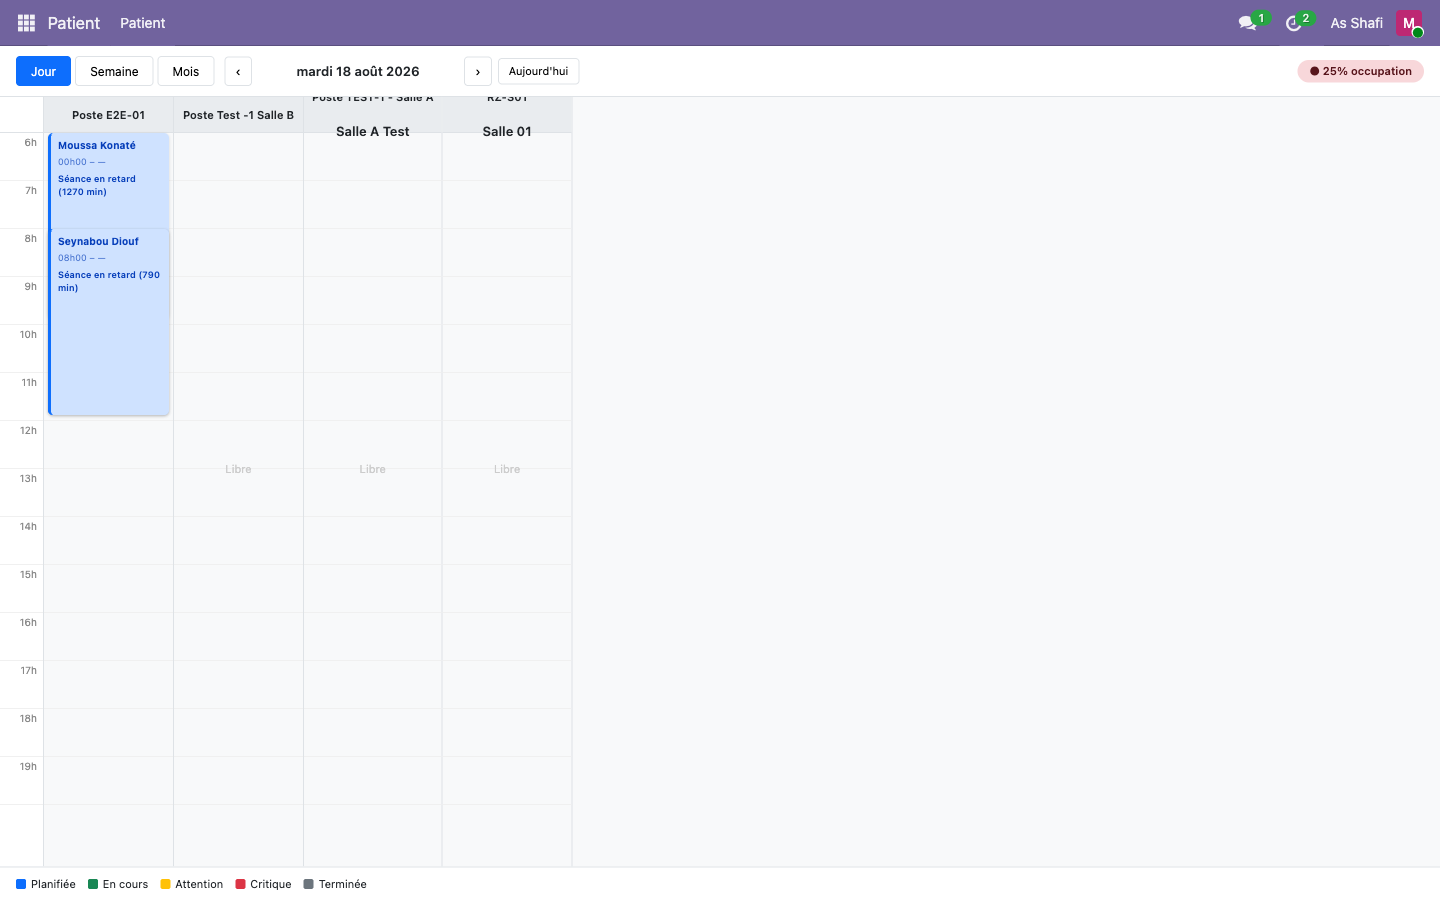
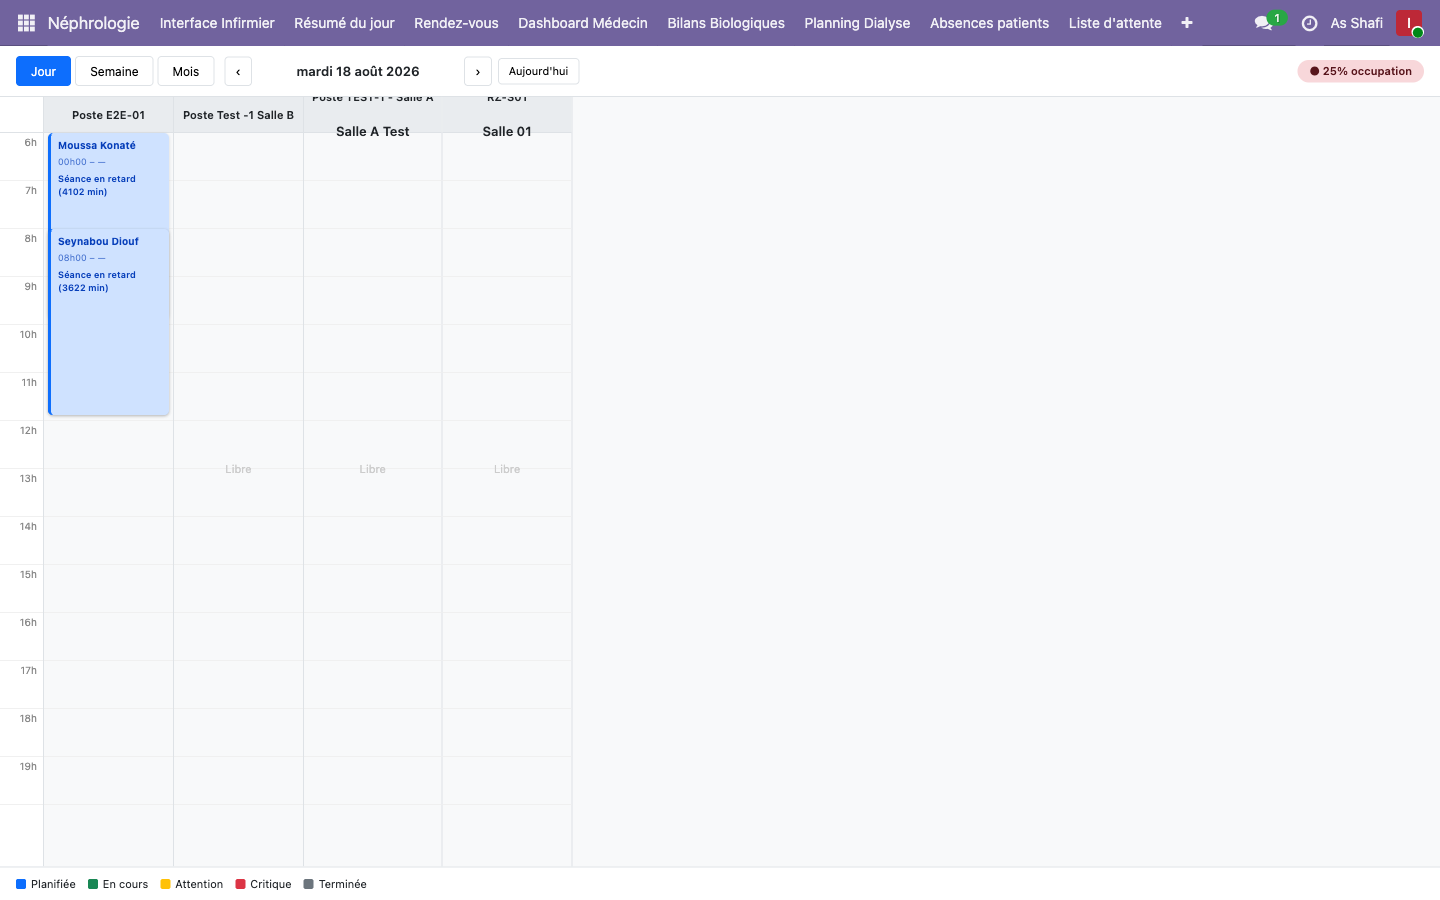
feat: workflow C3 — infirmière accède Planning + Dossier complet avant démarrage séance
- Réorganisation workflow : étapes 1b (Planning Dialyse) et 1c (Dossier complet) placées AVANT l'étape 2 (Démarrer la séance)
- Rôle infirmière pour Planning Dialyse et Dossier complet (badges col-inf)
- Groupe nephro ajouté à l'infirmière via RPC dans les tests
- Screenshots régénérés avec onglet Néphrologie complet (accès vasculaire, poids, débits, KT/V, signes vitaux)
- Scroll .o_form_sheet_bg pour capturer toutes les sections cliniques

diff --git a/docs/index.html b/docs/index.html
@@ -888,6 +888,75 @@
       </div>
     </div>
 
+    <!-- 1b — Planning Dialyse -->
+    <div class="step-card">
+      <div class="step-card-header">
+        <div class="step-num col-inf">1b</div>
+        <div class="title-block">
+          <h3>Planning Dialyse — calendrier des postes</h3>
+          <div class="step-meta">Vue : Planning Dialyse (action-590) · Jour / Semaine / Mois</div>
+        </div>
+        <span class="role-badge-inline col-inf">💊 Infirmière</span>
+      </div>
+      <div class="step-card-body">
+        <p>Le <strong>Planning Dialyse</strong> offre une vue calendrier des postes de dialyse avec les séances programmées. L'infirmière peut naviguer entre les vues <strong>jour</strong> (grille horaire 6h-19h par poste), <strong>semaine</strong> (grille patient/date) et <strong>mois</strong>. Les cartes de séances sont colorées selon leur état : bleu (planifiée), vert (en cours), orange (attention), rouge (critique), gris (terminée).</p>
+        <ul class="inst-list">
+          <li><span class="inst-dot">1</span><span>Ouvrir le <strong>Planning Dialyse</strong> depuis le menu Néphrologie</span></li>
+          <li><span class="inst-dot">2</span><span>Naviguer entre les vues <kbd>Jour</kbd> / <kbd>Semaine</kbd> / <kbd>Mois</kbd></span></li>
+          <li><span class="inst-dot">3</span><span>Cliquer sur une carte de séance → le <strong>panneau patient</strong> s'ouvre avec les détails : durée, UF, KT/V, TA pré-dialyse, traitement en cours</span></li>
+          <li><span class="inst-dot">4</span><span>Depuis le panneau : <kbd>Dossier complet</kbd>, <kbd>Prescrire</kbd>, <kbd>Historique</kbd> ou <kbd>Planifier RDV</kbd></span></li>
+        </ul>
+        <div class="screenshots-row double">
+          <div class="screenshot-wrap">
+            <img src="../screenshots/c3_plan_01_calendar_day.png" alt="c3_plan_01_calendar_day.png" loading="lazy" style="width:100%;display:block;border-radius:8px;">
+          </div>
+          <div class="screenshot-wrap">
+            <img src="../screenshots/c3_plan_02_calendar_week.png" alt="c3_plan_02_calendar_week.png" loading="lazy" style="width:100%;display:block;border-radius:8px;">
+          </div>
+        </div>
+        <div class="screenshots-row single">
+          <div class="screenshot-wrap">
+            <img src="../screenshots/c3_plan_03_session_panel.png" alt="c3_plan_03_session_panel.png" loading="lazy" style="width:100%;display:block;border-radius:8px;">
+          </div>
+        </div>
+      </div>
+    </div>
+
+    <!-- 1c — Dossier complet depuis le Planning -->
+    <div class="step-card">
+      <div class="step-card-header">
+        <div class="step-num col-inf">1c</div>
+        <div class="title-block">
+          <h3>Dossier complet de la séance</h3>
+          <div class="step-meta">Action : bouton <kbd>Dossier complet</kbd> dans le panneau patient</div>
+        </div>
+        <span class="role-badge-inline col-inf">💊 Infirmière</span>
+      </div>
+      <div class="step-card-body">
+        <p>Depuis le panneau patient du Planning Dialyse, l'infirmière clique sur <kbd>Dossier complet</kbd> pour ouvrir la fiche complète de la séance de dialyse. Ce formulaire contient toutes les informations cliniques : données d'arrivée, paramètres de dialyse, vitaux, complications, consommables, et le résultat KT/V.</p>
+        <ul class="inst-list">
+          <li><span class="inst-dot">1</span><span>Cliquer sur <kbd>Dossier complet</kbd> dans le panneau patient</span></li>
+          <li><span class="inst-dot">2</span><span>Le formulaire s'ouvre avec l'onglet <strong>Néphrologie</strong> : régime d'hémodialyse, type d'accès vasculaire, planning, KT/V</span></li>
+          <li><span class="inst-dot">3</span><span>Section <strong>Accès vasculaire</strong> (aiguilles, ponction), <strong>Statut à l'arrivée</strong> (TA pré-dialyse, température), <strong>Poids</strong> (sec, arrivée, UF)</span></li>
+          <li><span class="inst-dot">4</span><span>Section <strong>Fin de séance</strong> (KT/V calculé, URR, tolérance), <strong>Débits</strong> (sanguin, dialysat), <strong>Paramètres du bain</strong></span></li>
+        </ul>
+        <div class="screenshots-row double">
+          <div class="screenshot-wrap">
+            <img src="../screenshots/c3_plan_04_dossier_complet.png" alt="Dossier complet — onglet Néphrologie" loading="lazy" style="width:100%;display:block;border-radius:8px;">
+          </div>
+          <div class="screenshot-wrap">
+            <img src="../screenshots/c3_plan_05_dossier_scroll.png" alt="Accès vasculaire, Statut à l'arrivée, Poids" loading="lazy" style="width:100%;display:block;border-radius:8px;">
+          </div>
+        </div>
+        <div class="screenshots-row" style="margin-top:0.5em;">
+          <div class="screenshot-wrap">
+            <img src="../screenshots/c3_plan_06_dossier_debits.png" alt="Fin de séance, Débits, Paramètres du bain" loading="lazy" style="width:100%;display:block;border-radius:8px;">
+          </div>
+        </div>
+        <div class="tip"><span class="ci">✓</span> <span>Le dossier complet doit être rempli <strong>avant</strong> de démarrer la séance — il constitue la base clinique de référence.</span></div>
+      </div>
+    </div>
+
     <!-- 3.2 -->
     <div class="step-card">
       <div class="step-card-header">
@@ -974,40 +1043,6 @@
           </div>
           <div class="screenshot-wrap">
             <img src="../screenshots/c2_med_09_dashboard_liste.png" alt="c2_med_09_dashboard_liste.png" loading="lazy" style="width:100%;display:block;border-radius:8px;">
-          </div>
-        </div>
-      </div>
-    </div>
-
-    <!-- 3.4bis — Planning Dialyse -->
-    <div class="step-card">
-      <div class="step-card-header">
-        <div class="step-num col-med">4b</div>
-        <div class="title-block">
-          <h3>Planning Dialyse — calendrier des postes</h3>
-          <div class="step-meta">Vue : Planning Dialyse (action-590) · Jour / Semaine / Mois</div>
-        </div>
-        <span class="role-badge-inline col-med">👨⚕ Médecin</span>
-      </div>
-      <div class="step-card-body">
-        <p>Le <strong>Planning Dialyse</strong> offre une vue calendrier des postes de dialyse avec les séances programmées. Le médecin peut naviguer entre les vues <strong>jour</strong> (grille horaire 6h-19h par poste), <strong>semaine</strong> (grille patient/date) et <strong>mois</strong>. Les cartes de séances sont colorées selon leur état : bleu (planifiée), vert (en cours), orange (attention), rouge (critique), gris (terminée).</p>
-        <ul class="inst-list">
-          <li><span class="inst-dot">1</span><span>Ouvrir le <strong>Planning Dialyse</strong> depuis le menu Néphrologie</span></li>
-          <li><span class="inst-dot">2</span><span>Naviguer entre les vues <kbd>Jour</kbd> / <kbd>Semaine</kbd> / <kbd>Mois</kbd></span></li>
-          <li><span class="inst-dot">3</span><span>Cliquer sur une carte de séance → le <strong>panneau patient</strong> s'ouvre avec les détails : durée, UF, KT/V, TA pré-dialyse, traitement en cours</span></li>
-          <li><span class="inst-dot">4</span><span>Depuis le panneau : <kbd>Dossier complet</kbd>, <kbd>Prescrire</kbd>, <kbd>Historique</kbd> ou <kbd>Planifier RDV</kbd></span></li>
-        </ul>
-        <div class="screenshots-row double">
-          <div class="screenshot-wrap">
-            <img src="../screenshots/c3_plan_01_calendar_day.png" alt="c3_plan_01_calendar_day.png" loading="lazy" style="width:100%;display:block;border-radius:8px;">
-          </div>
-          <div class="screenshot-wrap">
-            <img src="../screenshots/c3_plan_02_calendar_week.png" alt="c3_plan_02_calendar_week.png" loading="lazy" style="width:100%;display:block;border-radius:8px;">
-          </div>
-        </div>
-        <div class="screenshots-row single">
-          <div class="screenshot-wrap">
-            <img src="../screenshots/c3_plan_03_session_panel.png" alt="c3_plan_03_session_panel.png" loading="lazy" style="width:100%;display:block;border-radius:8px;">
           </div>
         </div>
       </div>

diff --git a/tests/process/99b_screenshots_index.spec.js b/tests/process/99b_screenshots_index.spec.js
@@ -13,7 +13,7 @@
 
 const { test, expect } = require('@playwright/test');
 const { loginUI } = require('../helpers/auth');
-const { loginApi, apiSearchRead, apiRead } = require('../helpers/api');
+const { loginApi, rpcCall, apiSearchRead, apiRead } = require('../helpers/api');
 const path = require('path');
 const fs = require('fs');
 
@@ -425,19 +425,50 @@ test.describe('99b — Screenshots pour docs/index.html', () => {
   // C3 — Planning Dialyse (action-590, acs_dialysis_calendar)
   // ═══════════════════════════════════════════════════════════════════
   test('C3 — Planning Dialyse', async ({ page, request }) => {
-    await loginUI(page, 'medecin@nephro.test', TEST_PASSWORD);
     await loginApi(request, 'admin', 'admin');
+
+    // Donner à l'infirmière le groupe néphrologie pour voir l'onglet clinique
+    try {
+      const xmlRef = await apiSearchRead(request, 'ir.model.data',
+        [['module', '=', 'acs_hms_nephrology'], ['name', '=', 'group_hms_nephrology_user']],
+        ['res_id'], 1);
+      const infUser = await apiSearchRead(request, 'res.users',
+        [['login', '=', 'infirmiere@nephro.test']], ['id'], 1);
+      if (xmlRef.length && infUser.length) {
+        const grpId = xmlRef[0].res_id;
+        const userId = infUser[0].id;
+        await rpcCall(request, 'res.groups', 'write', [[grpId], { user_ids: [[4, userId]] }]);
+        console.log(`  Groupe nephro (id=${grpId}) ajouté à infirmière (id=${userId})`);
+      }
+    } catch (e) {
+      console.log('  Note: groupe nephro infirmière:', e.message);
+    }
+
+    await loginUI(page, 'infirmiere@nephro.test', TEST_PASSWORD);
 
     // ── c3_plan_01_calendar_day — Planning Dialyse vue jour (postes + séances) ──
     await page.goto('/odoo/action-590', { waitUntil: 'domcontentloaded' });
     await page.waitForTimeout(4000);
     await page.waitForSelector('.dc-wrap, .dc-content', { timeout: 10000 }).catch(() => {});
     await page.waitForTimeout(1000);
-    // S'assurer qu'on est en vue jour (cliquer le bouton "Jour" si disponible)
+    // S'assurer qu'on est en vue jour
     const dayBtn = page.locator('button:has-text("Jour"), .dc-toolbar button:has-text("J")').first();
     if (await dayBtn.isVisible().catch(() => false)) {
       await dayBtn.click();
       await page.waitForTimeout(2000);
+    }
+    // Si 0% occupation (pas de séances aujourd'hui), naviguer aux jours précédents
+    let hasSessionCards = await page.locator('.dc-session-card').first().isVisible().catch(() => false);
+    if (!hasSessionCards) {
+      // Cliquer le bouton "précédent" (‹ = &#8249;, .dc-nav-btn premier du groupe)
+      for (let i = 0; i < 7 && !hasSessionCards; i++) {
+        const prevArrow = page.locator('.dc-nav-btn').first();
+        if (await prevArrow.isVisible().catch(() => false)) {
+          await prevArrow.click();
+          await page.waitForTimeout(2000);
+        }
+        hasSessionCards = await page.locator('.dc-session-card').first().isVisible().catch(() => false);
+      }
     }
     await snap(page, 'c3_plan_01_calendar_day');
 
@@ -452,16 +483,26 @@ test.describe('99b — Screenshots pour docs/index.html', () => {
     }
 
     // ── c3_plan_03_session_panel — Clic sur une séance → panneau patient ──
-    // Revenir en vue jour pour cliquer sur une carte de séance
-    if (await dayBtn.isVisible().catch(() => false)) {
-      await dayBtn.click();
+    // Revenir en vue jour au jour qui contient des séances
+    const dayBtn2 = page.locator('.dc-mode-btn:has-text("Jour"), button:has-text("Jour")').first();
+    if (await dayBtn2.isVisible().catch(() => false)) {
+      await dayBtn2.click();
       await page.waitForTimeout(2000);
-    } else {
-      await page.goto('/odoo/action-590', { waitUntil: 'domcontentloaded' });
-      await page.waitForTimeout(4000);
+    }
+    // Naviguer au jour avec des séances si aujourd'hui est vide
+    let hasCards2 = await page.locator('.dc-session-card').first().isVisible().catch(() => false);
+    if (!hasCards2) {
+      for (let i = 0; i < 7 && !hasCards2; i++) {
+        const prevArrow2 = page.locator('.dc-nav-btn').first();
+        if (await prevArrow2.isVisible().catch(() => false)) {
+          await prevArrow2.click();
+          await page.waitForTimeout(2000);
+        }
+        hasCards2 = await page.locator('.dc-session-card').first().isVisible().catch(() => false);
+      }
     }
     // Cliquer sur la première carte de séance dans la grille
-    const sessionCard = page.locator('.dc-session-card, .session-card, [class*="session"]').first();
+    const sessionCard = page.locator('.dc-session-card').first();
     if (await sessionCard.isVisible().catch(() => false)) {
       await sessionCard.click();
       await page.waitForTimeout(2000);
@@ -469,9 +510,48 @@ test.describe('99b — Screenshots pour docs/index.html', () => {
       await page.waitForSelector('.doctor-patient-panel', { timeout: 5000 }).catch(() => {});
       await page.waitForTimeout(1000);
       await snap(page, 'c3_plan_03_session_panel');
+
+      // ── c3_plan_04_dossier_complet — Clic "Dossier complet" → formulaire séance ──
+      const dossierBtn = page.locator('.dpp-btn-primary, .doctor-patient-panel button:has-text("Dossier complet")').first();
+      if (await dossierBtn.isVisible().catch(() => false)) {
+        await dossierBtn.click();
+        await page.waitForTimeout(3000);
+        await page.waitForSelector('.o_form_view, .o_action', { timeout: 10000 }).catch(() => {});
+        await page.waitForTimeout(1000);
+
+        // S'assurer que l'onglet Néphrologie est sélectionné
+        const nephroTab = page.locator('.o_notebook .nav-link').filter({ hasText: /n[eé]phrologie/i }).first();
+        if (await nephroTab.isVisible().catch(() => false)) {
+          await nephroTab.click();
+          await page.waitForTimeout(500);
+        }
+        await snap(page, 'c3_plan_04_dossier_complet');
+
+        // ── c3_plan_05_dossier_scroll — Scroll vers Poids / Fin de séance ──
+        await page.evaluate(() => {
+          const el = document.querySelector('.o_form_sheet_bg');
+          if (el) el.scrollTop = 700;
+        });
+        await page.waitForTimeout(500);
+        await snap(page, 'c3_plan_05_dossier_scroll');
+
+        // ── c3_plan_06_dossier_debits — Scroll vers Débits / Paramètres du bain ──
+        await page.evaluate(() => {
+          const el = document.querySelector('.o_form_sheet_bg');
+          if (el) el.scrollTop = 1400;
+        });
+        await page.waitForTimeout(500);
+        await snap(page, 'c3_plan_06_dossier_debits');
+      } else {
+        await snap(page, 'c3_plan_04_dossier_complet');
+        await snap(page, 'c3_plan_05_dossier_scroll');
+        await snap(page, 'c3_plan_06_dossier_debits');
+      }
     } else {
       // Pas de séance visible, prendre quand même un screenshot
       await snap(page, 'c3_plan_03_session_panel');
+      await snap(page, 'c3_plan_04_dossier_complet');
+      await snap(page, 'c3_plan_05_dossier_scroll');
     }
   });
 
